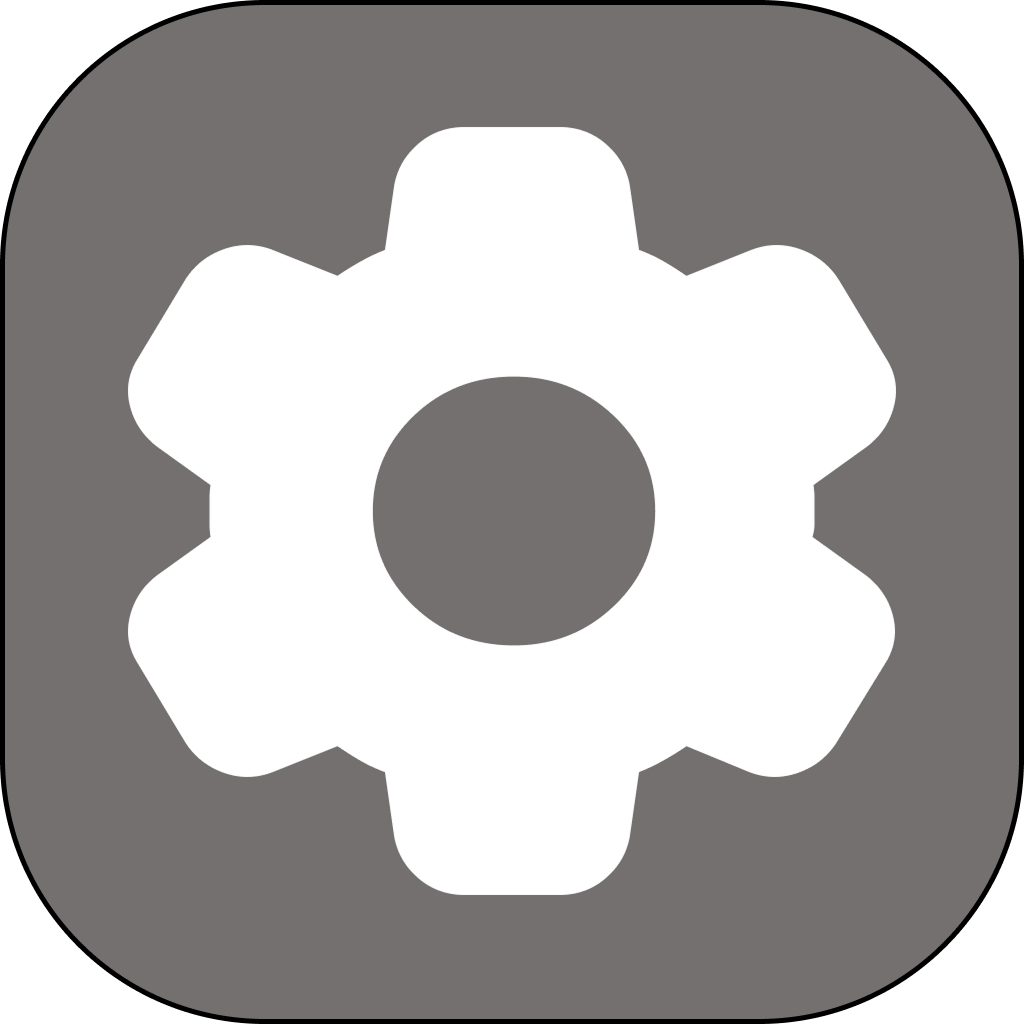
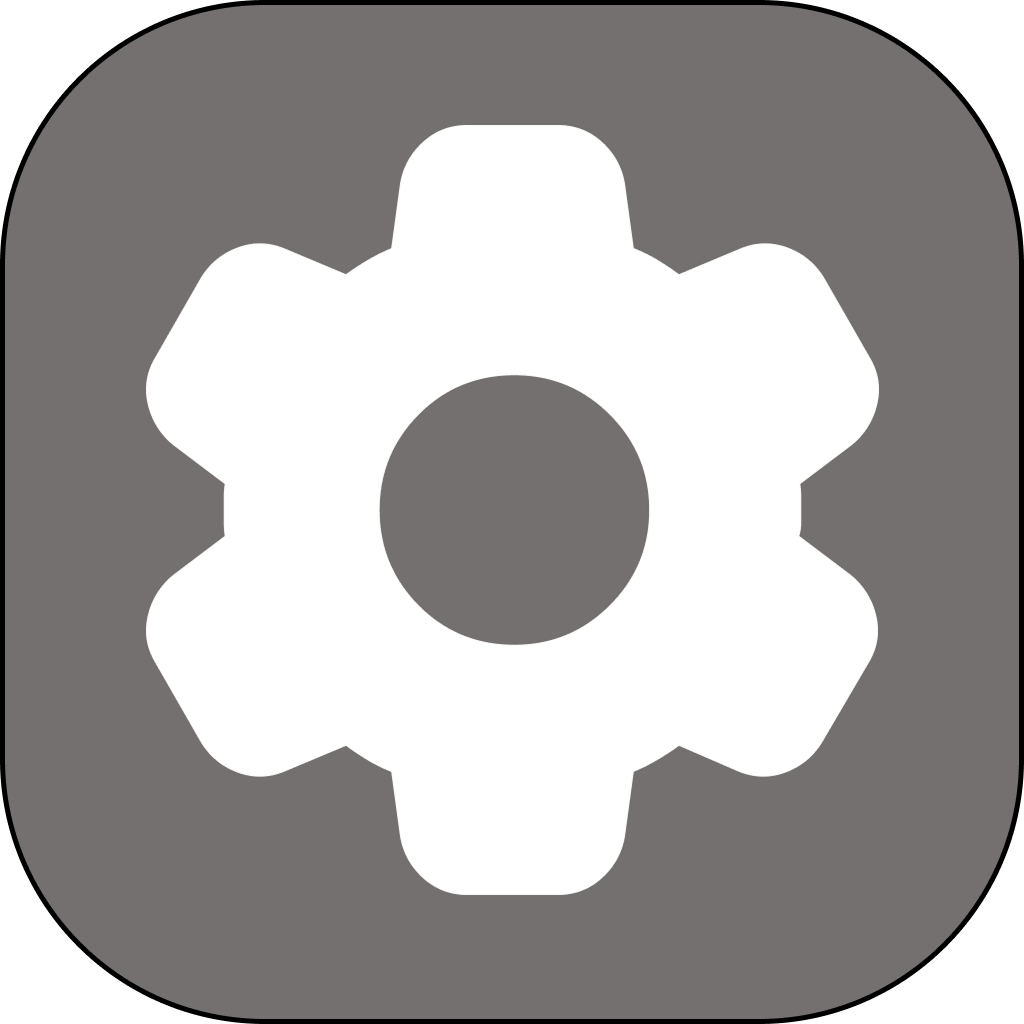
Subtle improvements

diff --git a/src/DaisyOS.Core/Models/ShellSettings.cs b/src/DaisyOS.Core/Models/ShellSettings.cs
@@ -2,7 +2,7 @@ namespace DaisyOS.Core.Models;
 
 public sealed class ShellSettings
 {
-    public const string DefaultWallpaperUri = "avares://DaisyOS.Shell/Assets/Wallpapers/Naruto.png";
+    public const string DefaultWallpaperUri = "avares://DaisyOS.Shell/Assets/Wallpapers/Dusk.png";
 
     public const string DefaultProfilePictureUri = "";
 
